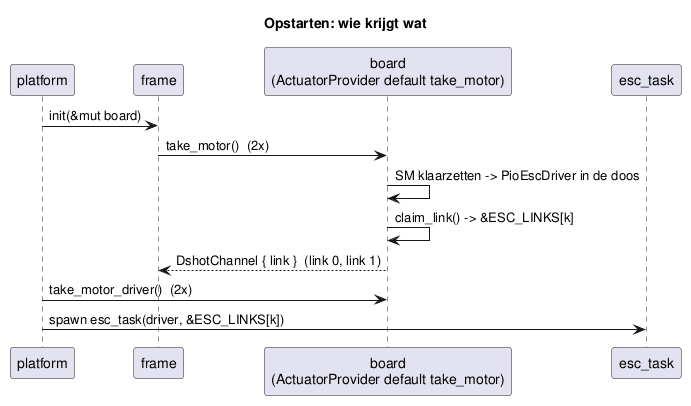
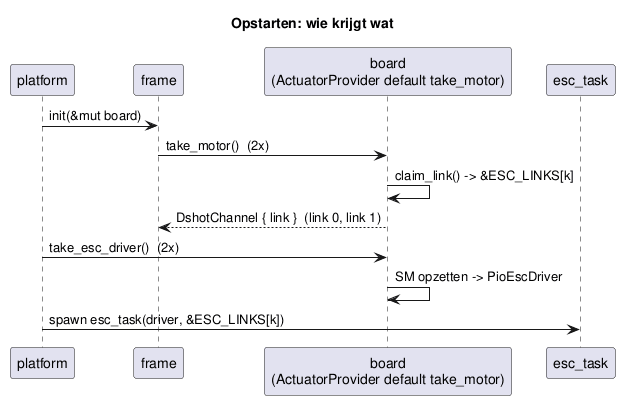
docs: fase B status + diagrammen

diff --git a/temp/todo.md b/temp/todo.md
@@ -11,15 +11,17 @@
 - [x] `frame.rs`: `throttle_to_dshot_value` met 0.0 = stop
 - [x] `dshot_pio.rs`: `esc_command` (shift `<< 16`) + helper gebruikt
 
-## 2. Fase B (eindvorm)
+## 2. Fase B (klaar, op `DSHOT_SPEED_HZ` na)
 - [x] `dshot/state.rs`: `EscLink` (`Signal<u16>` + 3× `AtomicU32`: raw + erpm + periode) + statics + `claim_link()`; `latest()` geeft `Option<DshotTelemetry>`
 - [x] `dshot/driver.rs`: `EscDriver` trait (async `send_frame`, `read_pair`)
 - [x] `dshot/dshot_channel.rs`: `DshotChannel { link }` impl `MotorChannel` (encode + telemetrie via link)
-- [ ] board: `PioEscDriver { sm }` impl `EscDriver` + `type Esc` op de provider + `take_motor_drivers()`
-- [ ] `actuators/provider.rs`: `ActuatorProvider` uit `boards/`; default `take_motor` koppelt de link (`claim_link`), board levert alleen ruwe SM via `take_motor_hardware`
-- [ ] `tasks/esc_telemetry.rs`: `link.wait → driver.send_frame → driver.read_pair → decode → link.publish`
-- [ ] `config.rs`: `DSHOT_SPEED_HZ` + alias `esc::Driver = <ActiveBoard as ActuatorProvider>::Esc` (geen generics in `#[task]`)
-- [ ] `platform.rs` / `main.rs`: drivers ophalen, koppelen aan `ESC_LINKS` op volgorde, taak spawnen
+- [x] board: `PioEscDriver { sm }` impl `EscDriver`; `take_esc_driver()` = oude take_motor-logica zonder kanaal; `type MotorPin = DshotChannel`
+- [x] `actuators/provider.rs`: `ActuatorProvider` uit `boards/` + `type Esc: EscDriver`; default `take_motor` = `claim_link()` + `DshotChannel`
+- [x] `tasks/esc_telemetry.rs`: `link.wait → driver.send_frame → driver.read_pair → decode → link.publish`
+- [x] `config.rs`: alias `esc::Driver = <ActiveBoard as ActuatorProvider>::Esc`
+- [ ] `config.rs`: `DSHOT_SPEED_HZ` (nu nog `600_000` hardcoded in `dshot_pio.rs:115`)
+- [x] `platform.rs` / `main.rs`: drivers ophalen, koppelen aan `ESC_LINKS` op volgorde, taak spawnen
+- [x] `Frame::MOTOR_COUNT` const + itereren in `rate.rs` (geen hardcoded 2 meer bij consumenten)
 - [x] `v_copter.rs`: `set_direction` `todo!()` eruit
 
 ## 3. Opruimen (warnings)

diff --git a/temp/visie.md b/temp/visie.md
@@ -40,10 +40,10 @@ v_copter → MotorController<C> → MotorChannel (trait, f32 0..1)
 - Ander board (STM32/DMA) = eigen `EscDriver`; `DshotChannel` en de taak blijven gelijk.
 
 ## Opstarten
-- `platform`: board init → `frame::init(&mut board)` → daarna drivers uit de doos halen + `ESC_LINKS[k]` koppelen → `esc_task` spawnen.
-- `take_motor()` (default op `ActuatorProvider`, verhuist naar `actuators/provider.rs`): board zet de SM klaar (in zijn doos), default pakt de volgende link (`claim_link()`) en geeft `DshotChannel { link }` aan het frame.
+- `platform`: board init → `frame::init(&mut board)` → daarna `take_esc_driver()` per motor + `ESC_LINKS[k]` koppelen → `esc_task` spawnen.
+- `take_motor()` (default op `ActuatorProvider`, verhuist naar `actuators/provider.rs`): pakt alleen de volgende link (`claim_link()`) en geeft `DshotChannel { link }` aan het frame.
 - Links: `[EscLink; N]` statics + `AtomicUsize`-teller; beide kanten krijgen `&'static EscLink`.
 
 ## Status (13 okt)
 - Klaar (fase A, gecommit): generieke `MotorChannel` (f32) + `MotorController`; `PioDshotChannel` op de nieuwe trait; 0 = stop; `esc_command`.
-- Fase B: stap 1 (`EscLink` + `claim_link`) klaar; volgende stap = `driver.rs`. Zie `temp/todo.md` sectie 2.
+- Fase B: stappen 1-6 klaar (EscLink, EscDriver, DshotChannel, provider + PioEscDriver, esc-taak, wiring); alleen FC-test (stap 7) + `DSHOT_SPEED_HZ` naar config.
